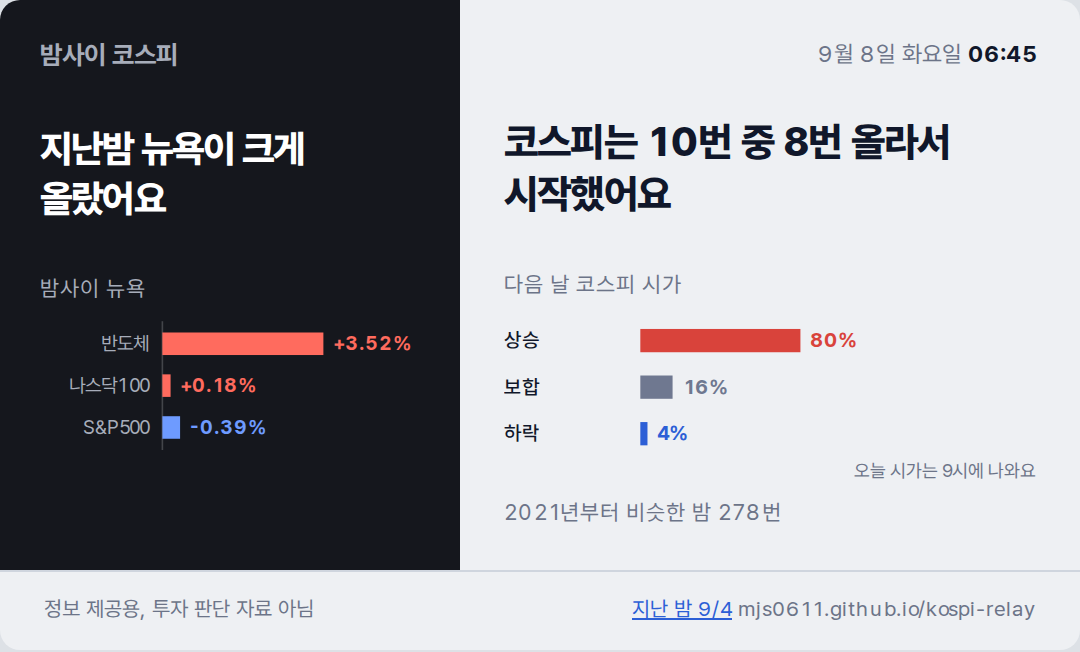
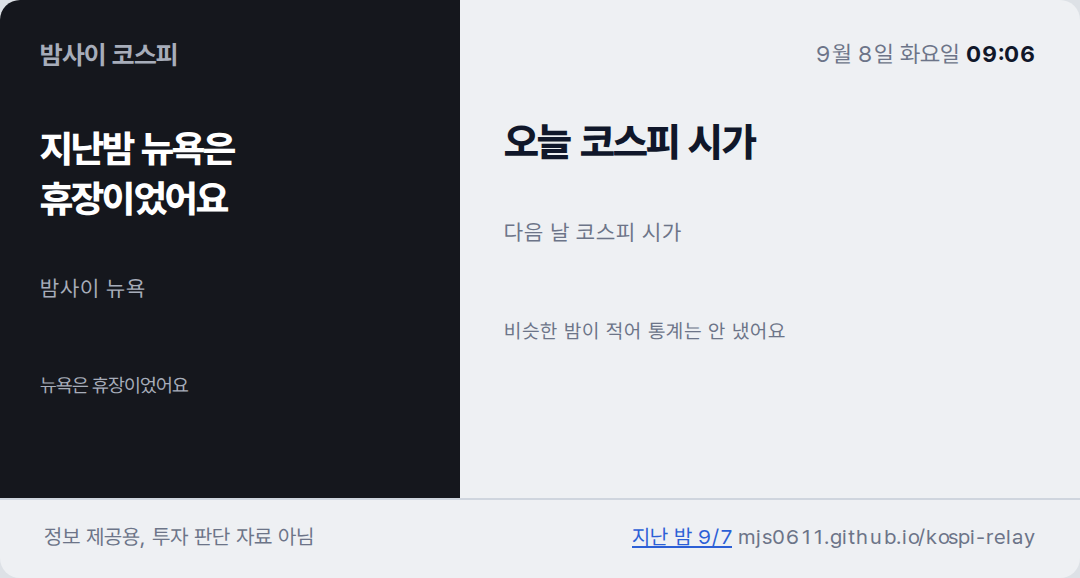
deploy: b67cf29b07115dd2696ee58757c912fccb803500

diff --git a/2026-09-08/index.html b/2026-09-08/index.html
@@ -1,7 +1,7 @@
 <!doctype html><html lang="ko"><head><meta charset="utf-8"><meta name="viewport" content="width=device-width,initial-scale=1">
 <title>밤사이 코스피 · 2026-09-08</title>
 <meta name="description" content="전일 코스피 마감에서 밤사이 뉴욕을 거쳐 오늘 코스피 시가까지, 한 장.">
-<meta property="og:title" content="밤사이 코스피 09.08"><meta property="og:image" content="https://mjs0611.github.io/kospi-relay/relay.png"><meta property="og:description" content="지난밤 뉴욕이 크게 올랐어요. 코스피는 10번 중 8번 올라서 시작했어요">
+<meta property="og:title" content="밤사이 코스피 09.08"><meta property="og:image" content="https://mjs0611.github.io/kospi-relay/relay.png"><meta property="og:description" content="밤사이 흐름 한 장">
 <link rel="stylesheet" href="https://cdn.jsdelivr.net/gh/orioncactus/pretendard@v1.3.9/dist/web/variable/pretendardvariable-dynamic-subset.min.css">
 <style>
 /* 밤 / 낮 두 쪽. 왼쪽은 밤사이 뉴욕(어둡게), 오른쪽은 다음 날 코스피 시가(밝게). 경계가 곧 릴레이.
@@ -23,29 +23,11 @@ footer{grid-column:1/-1;display:flex;justify-content:space-between;gap:12px;padd
 footer a{color:#2C5FD6}
 @media (max-width:480px){.sheet{grid-template-columns:1fr}.cond{margin-top:18px}.claim{margin-top:4px}}
 </style></head><body><div class="sheet">
-<section class="night"><p class="brand">밤사이 코스피</p><p class="cond">지난밤 뉴욕이 크게 올랐어요</p><p class="lab">밤사이 뉴욕</p><svg viewBox="0 0 236 84" xmlns="http://www.w3.org/2000/svg" font-family="var(--sans)" font-size="12">
-<line x1="76" y1="2" x2="76" y2="82" stroke="var(--rule)" stroke-width="1"/>
-<text x="68" y="20" text-anchor="end" fill="var(--muted)">반도체</text>
-<rect x="76" y="9" width="100.0" height="14" fill="var(--up)"/>
-<text x="182.0" y="20" fill="var(--up)" font-weight="700">+3.52%</text>
-<text x="68" y="46" text-anchor="end" fill="var(--muted)">나스닥100</text>
-<rect x="76" y="35" width="5.1" height="14" fill="var(--up)"/>
-<text x="87.1" y="46" fill="var(--up)" font-weight="700">+0.18%</text>
-<text x="68" y="72" text-anchor="end" fill="var(--muted)">S&P500</text>
-<rect x="76" y="61" width="11.0" height="14" fill="var(--down)"/>
-<text x="93.0" y="72" fill="var(--down)" font-weight="700">-0.39%</text>
+<section class="night"><p class="brand">밤사이 코스피</p><p class="cond">지난밤 뉴욕은 휴장이었어요</p><p class="lab">밤사이 뉴욕</p><svg viewBox="0 0 236 84" xmlns="http://www.w3.org/2000/svg" font-family="var(--sans)" font-size="12">
+<text x="0" y="46" fill="var(--muted)">뉴욕은 휴장이었어요</text>
 </svg></section>
-<section class="day"><p class="stamp">9월 8일 화요일 <b>06:45</b></p><p class="claim">코스피는 10번 중 8번 올라서 시작했어요</p><p class="lab">다음 날 코스피 시가</p><svg viewBox="0 0 320 100" xmlns="http://www.w3.org/2000/svg" font-family="var(--sans)" font-size="12">
-<text x="0" y="20" fill="var(--ink)" font-weight="500">상승</text>
-<rect x="82" y="9" width="96.3" height="14" fill="var(--up)"/>
-<text x="184.3" y="20" fill="var(--up)" font-weight="700">80%</text>
-<text x="0" y="48" fill="var(--ink)" font-weight="500">보합</text>
-<rect x="82" y="37" width="19.4" height="14" fill="var(--flat)"/>
-<text x="107.4" y="48" fill="var(--flat)" font-weight="700">16%</text>
-<text x="0" y="76" fill="var(--ink)" font-weight="500">하락</text>
-<rect x="82" y="65" width="4.3" height="14" fill="var(--down)"/>
-<text x="92.3" y="76" fill="var(--down)" font-weight="700">4%</text>
-<text x="320" y="98" text-anchor="end" fill="var(--muted)" font-size="11">오늘 시가는 9시에 나와요</text>
-</svg><p class="cap">2021년부터 비슷한 밤 278번</p></section>
-<footer><span>정보 제공용, 투자 판단 자료 아님</span><span style="white-space:nowrap"><a href="../2026-09-04/">지난 밤 9/4</a> mjs0611.github.io/kospi-relay</span></footer>
+<section class="day"><p class="stamp">9월 8일 화요일 <b>09:06</b></p><p class="claim">오늘 코스피 시가</p><p class="lab">다음 날 코스피 시가</p><svg viewBox="0 0 320 100" xmlns="http://www.w3.org/2000/svg" font-family="var(--sans)" font-size="12">
+<text x="0" y="46" fill="var(--muted)">비슷한 밤이 적어 통계는 안 냈어요</text>
+</svg></section>
+<footer><span>정보 제공용, 투자 판단 자료 아님</span><span style="white-space:nowrap"><a href="../2026-09-07/">지난 밤 9/7</a> mjs0611.github.io/kospi-relay</span></footer>
 </div></body></html>

diff --git a/index.html b/index.html
@@ -1,7 +1,7 @@
 <!doctype html><html lang="ko"><head><meta charset="utf-8"><meta name="viewport" content="width=device-width,initial-scale=1">
 <title>밤사이 코스피 · 2026-09-08</title>
 <meta name="description" content="전일 코스피 마감에서 밤사이 뉴욕을 거쳐 오늘 코스피 시가까지, 한 장.">
-<meta property="og:title" content="밤사이 코스피 09.08"><meta property="og:image" content="https://mjs0611.github.io/kospi-relay/relay.png"><meta property="og:description" content="지난밤 뉴욕이 크게 올랐어요. 코스피는 10번 중 8번 올라서 시작했어요">
+<meta property="og:title" content="밤사이 코스피 09.08"><meta property="og:image" content="https://mjs0611.github.io/kospi-relay/relay.png"><meta property="og:description" content="밤사이 흐름 한 장">
 <link rel="stylesheet" href="https://cdn.jsdelivr.net/gh/orioncactus/pretendard@v1.3.9/dist/web/variable/pretendardvariable-dynamic-subset.min.css">
 <style>
 /* 밤 / 낮 두 쪽. 왼쪽은 밤사이 뉴욕(어둡게), 오른쪽은 다음 날 코스피 시가(밝게). 경계가 곧 릴레이.
@@ -23,29 +23,11 @@ footer{grid-column:1/-1;display:flex;justify-content:space-between;gap:12px;padd
 footer a{color:#2C5FD6}
 @media (max-width:480px){.sheet{grid-template-columns:1fr}.cond{margin-top:18px}.claim{margin-top:4px}}
 </style></head><body><div class="sheet">
-<section class="night"><p class="brand">밤사이 코스피</p><p class="cond">지난밤 뉴욕이 크게 올랐어요</p><p class="lab">밤사이 뉴욕</p><svg viewBox="0 0 236 84" xmlns="http://www.w3.org/2000/svg" font-family="var(--sans)" font-size="12">
-<line x1="76" y1="2" x2="76" y2="82" stroke="var(--rule)" stroke-width="1"/>
-<text x="68" y="20" text-anchor="end" fill="var(--muted)">반도체</text>
-<rect x="76" y="9" width="100.0" height="14" fill="var(--up)"/>
-<text x="182.0" y="20" fill="var(--up)" font-weight="700">+3.52%</text>
-<text x="68" y="46" text-anchor="end" fill="var(--muted)">나스닥100</text>
-<rect x="76" y="35" width="5.1" height="14" fill="var(--up)"/>
-<text x="87.1" y="46" fill="var(--up)" font-weight="700">+0.18%</text>
-<text x="68" y="72" text-anchor="end" fill="var(--muted)">S&P500</text>
-<rect x="76" y="61" width="11.0" height="14" fill="var(--down)"/>
-<text x="93.0" y="72" fill="var(--down)" font-weight="700">-0.39%</text>
+<section class="night"><p class="brand">밤사이 코스피</p><p class="cond">지난밤 뉴욕은 휴장이었어요</p><p class="lab">밤사이 뉴욕</p><svg viewBox="0 0 236 84" xmlns="http://www.w3.org/2000/svg" font-family="var(--sans)" font-size="12">
+<text x="0" y="46" fill="var(--muted)">뉴욕은 휴장이었어요</text>
 </svg></section>
-<section class="day"><p class="stamp">9월 8일 화요일 <b>06:45</b></p><p class="claim">코스피는 10번 중 8번 올라서 시작했어요</p><p class="lab">다음 날 코스피 시가</p><svg viewBox="0 0 320 100" xmlns="http://www.w3.org/2000/svg" font-family="var(--sans)" font-size="12">
-<text x="0" y="20" fill="var(--ink)" font-weight="500">상승</text>
-<rect x="82" y="9" width="96.3" height="14" fill="var(--up)"/>
-<text x="184.3" y="20" fill="var(--up)" font-weight="700">80%</text>
-<text x="0" y="48" fill="var(--ink)" font-weight="500">보합</text>
-<rect x="82" y="37" width="19.4" height="14" fill="var(--flat)"/>
-<text x="107.4" y="48" fill="var(--flat)" font-weight="700">16%</text>
-<text x="0" y="76" fill="var(--ink)" font-weight="500">하락</text>
-<rect x="82" y="65" width="4.3" height="14" fill="var(--down)"/>
-<text x="92.3" y="76" fill="var(--down)" font-weight="700">4%</text>
-<text x="320" y="98" text-anchor="end" fill="var(--muted)" font-size="11">오늘 시가는 9시에 나와요</text>
-</svg><p class="cap">2021년부터 비슷한 밤 278번</p></section>
-<footer><span>정보 제공용, 투자 판단 자료 아님</span><span style="white-space:nowrap"><a href="./2026-09-04/">지난 밤 9/4</a> mjs0611.github.io/kospi-relay</span></footer>
+<section class="day"><p class="stamp">9월 8일 화요일 <b>09:06</b></p><p class="claim">오늘 코스피 시가</p><p class="lab">다음 날 코스피 시가</p><svg viewBox="0 0 320 100" xmlns="http://www.w3.org/2000/svg" font-family="var(--sans)" font-size="12">
+<text x="0" y="46" fill="var(--muted)">비슷한 밤이 적어 통계는 안 냈어요</text>
+</svg></section>
+<footer><span>정보 제공용, 투자 판단 자료 아님</span><span style="white-space:nowrap"><a href="./2026-09-07/">지난 밤 9/7</a> mjs0611.github.io/kospi-relay</span></footer>
 </div></body></html>
